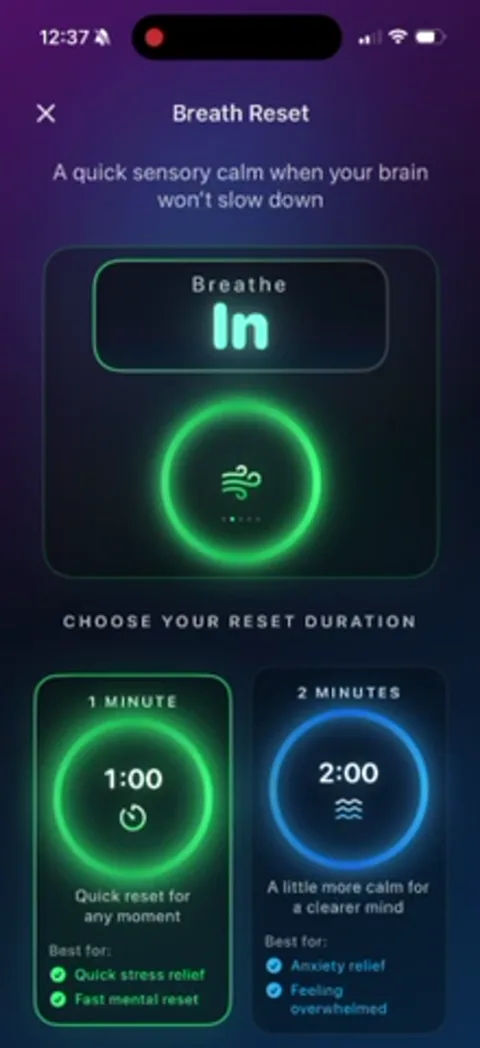
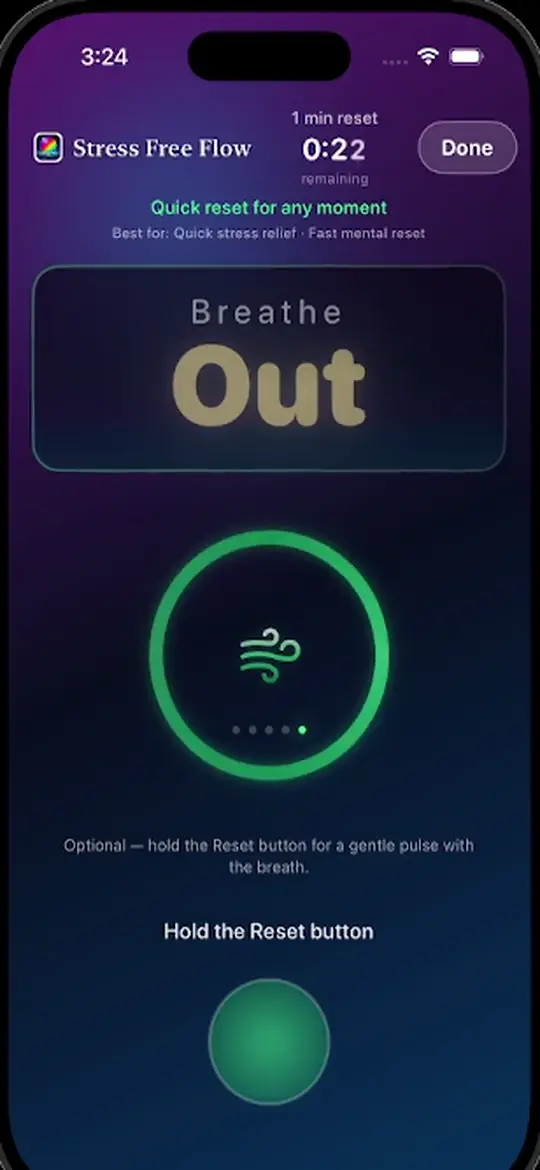
Improve Breath Reset preview quality and align privacy sticky CTA.
Replace the low-res Breath Reset mockup with a 540x1170 H.264 clip from the higher-quality source, and match the privacy page sticky CTA to iPhone and iPad App Store only wording.

diff --git a/index.html b/index.html
@@ -1054,8 +1054,8 @@
                   <div class="iphone-mockup-screen">
                     <video
                       class="iphone-mockup-video lazy-video"
-                      data-lazy-src="./assets/breath-reset/breath-reset.mp4?v=6"
-                      poster="./assets/video-posters/breath-reset.webp?v=6"
+                      data-lazy-src="./assets/breath-reset/breath-reset.mp4?v=7"
+                      poster="./assets/video-posters/breath-reset.webp?v=7"
                       muted
                       playsinline
                       preload="none"

diff --git a/privacy.html b/privacy.html
@@ -238,7 +238,7 @@
       <div class="site-shell sticky-cta-inner">
         <p class="sticky-cta-copy">
           <strong>Stress Free Flow</strong>
-          <span>Free on the App Store</span>
+          <span>iPhone &amp; iPad · App Store only</span>
         </p>
         <a
           class="app-store-badge app-store-badge-sticky"